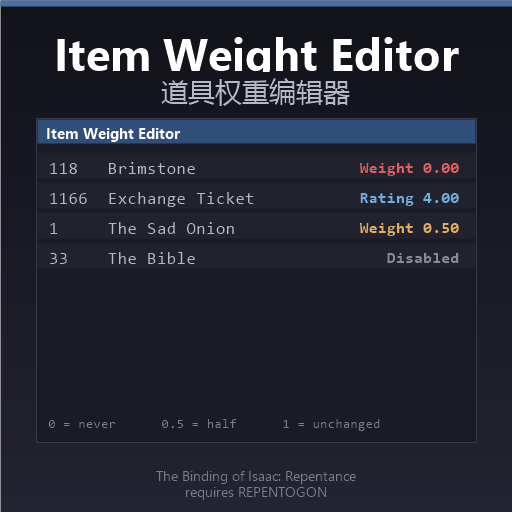
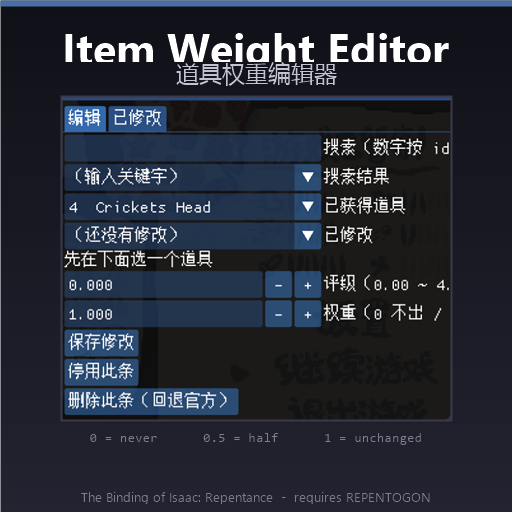
封面改用真实截图：裁掉旧标题栏，重排 512 与 1280 两版

diff --git a/CHANGELOG.md b/CHANGELOG.md
@@ -2005,3 +2005,34 @@ powershell -NoProfile -ExecutionPolicy Bypass -File tools\make-cover.ps1
 
 ⚠ 上传成功后部署目录的 metadata.xml 会多一行 `<id>`，**必须抄回仓库**，
 否则下次 `deploy.ps1` 覆盖掉它，再传会变成新条目（重复 mod）。
+## 封面改用真实界面截图（`tools\make-cover-from-shot.ps1`）
+
+作者给了一张编辑器窗口截图，要求用它做封面。
+
+**关键处理**：截图顶部窗口标题写的是 `Highlight Review · 道具评级` —— 那是**拆分前的旧名字**，
+和这个 mod（Item Weight Editor）对不上，所以合成时**裁掉顶部 34px 标题栏**，
+只保留面板内容。
+
+版面：
+
+```
+深色渐变底 + 顶部蓝条
+  Item Weight Editor        （32px 粗体）
+  道具权重编辑器              （17px）
+  ┌──────────────────┐
+  │  真实截图（裁标题栏）  │      ← 等比缩放，最大占 66% 高
+  └──────────────────┘
+  0 = never   0.5 = half   1 = unchanged
+  The Binding of Isaac: Repentance - requires REPENTOGON
+```
+
+参数化：标题块高度 `96 * Scale`、底部留 `18% * H`，这样 512×512 和 1280×720 都不会压字。
+
+产物（都在 1 MB 以内，工坊要求）：
+
+| 文件 | 尺寸 | 大小 |
+|---|---|---|
+| `docs\img\workshop-cover.png` | 512×512 | 106 KB |
+| `docs\img\workshop-wide.png` | 1280×720 | 153 KB |
+
+源图存为 `docs\img\src-editor-panel.png`，以后换图重跑脚本即可。
